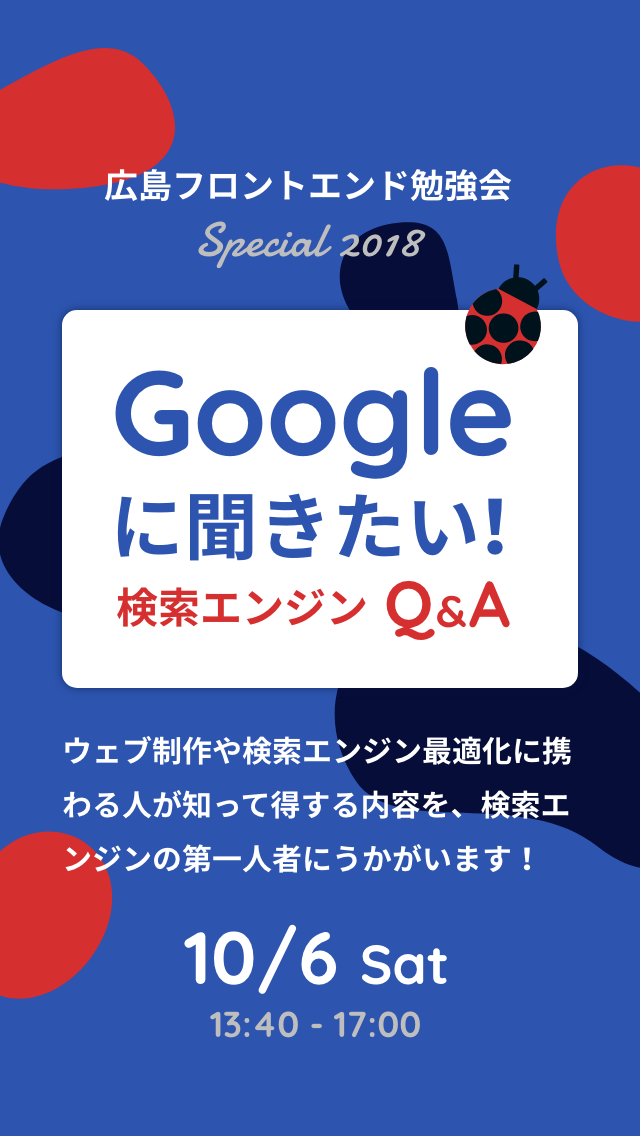
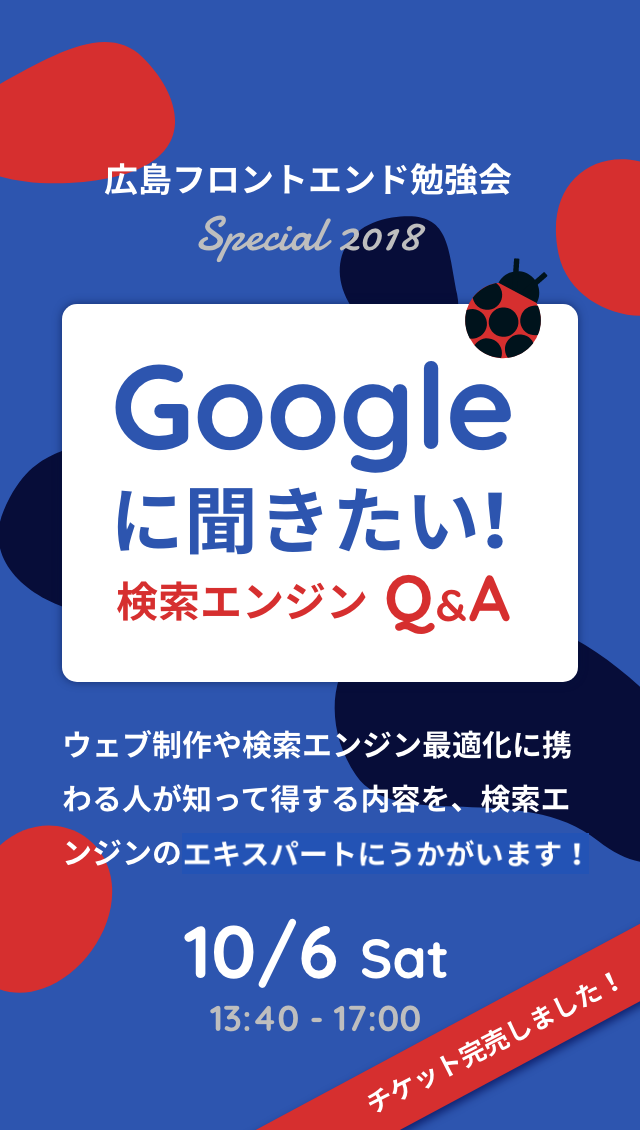
2018終了

diff --git a/htdocs/index.html b/htdocs/index.html
@@ -64,7 +64,7 @@
   },
   "description": "Adobe XDのハンズオンを行います。"
 }]
-</script><link rel="stylesheet" href="common/css/style.css"><link rel="stylesheet" href="common/fontello/css/fontello.css"><title>広島フロントエンド勉強会</title></head><body class="index"><div class="go_top"><a href="#">トップへ</a></div><div class="top sp"><h1 class="logo" data-heading="広島フロントエンド勉強会">広島フロントエンド勉強会</h1><div class="top_coding"><div class="top_introduction"><h2>広島フロントエンド勉強会 Vol.23</h2><h3>『8ぐらいから始めるReact』</h3><p class="datetime">2018年11月2日 19:00 〜 21:00</p><p class="placce">リードスペース株式会社<br>(広島県広島市中区上八丁堀7-5 ピロティーヒロシマ6F)</p><a class="btn_entry" href="https://hfe.connpass.com/event/101136" target="_blank">参加登録はこちら</a><a class="btn_more" href="#coding">詳しい情報を見る</a></div></div><div class="top_design"><div class="top_introduction"><h2>広島フロントエンド勉強会 〜デザイン部〜 Vol.9</h2><h3>『Adobe XD プロトタイプとデザインシステム』</h3><p class="datetime">2018年08月4日 13:30 〜 15:30</p><p class="placce">リードスペース株式会社<br>(広島県広島市中区上八丁堀7-5 ピロティーヒロシマ6F)</p><a class="btn_entry btn_none" href="https://hirofurodesign.connpass.com/event/93111" target="_blank">参加登録はこちら</a><a class="btn_more" href="#design">詳しい情報を見る</a></div></div><a class="top_sp" href="https://hirofuro.org/2018" target="_blank"><h2>広島フロントエンド勉強会 Special 2018<br>『Googleに聞きたい！ 検索エンジンQ&A』</h2><p>2018年10月6日 13:30</p></a></div><main class="main" id="main"><article id="coding"><section class="introduction"><h2>広島フロントエンド勉強会 Vol.23</h2><h3>『8ぐらいから始めるReact』</h3><p class="text">柿木 勝之さんに登壇いただき、Reactのハンズオンを行います。<br>構築済みのReactアプリケーションに機能を追加するハンズオンです。<br>今回は<a href="https://react-bootstrap.github.io/" target="_blank">react-bootstrap</a>を使ってページコンポーネントを作成します。<br><a href="http://react-hands-on.s3-website-us-east-1.amazonaws.com" target="_blank">完成イメージはこちら</a><br>ハンズオンにあたって、<a href="https://paiza.cloud/ja/" target="_blank">PaizaCloudクラウドIDE</a>を使用します。<br>事前にアカウント登録をお願いします(登録無料)。<br>(Vagrantが使える環境でも可能です)<br><a href="https://github.com/hiroshima-arc/react_hands-on" target="_blank">ハンズオンレポジトリはこちら</a></p><table class="info_table"><tr><th>日時</th><td>2018年11月2日 19:00 〜 21:00</td></tr><tr><th>会場</th><td>リードスペース株式会社<br>(広島県広島市中区上八丁堀7-5 ピロティーヒロシマ6F)</td></tr><tr><th>講師</th><td><strong>柿木 勝之</strong></td></tr><tr><th>定員</th><td>15人</td></tr><tr><th>参加費</th><td>200円</td></tr></table><a class="btn_entry" href="https://hfe.connpass.com/event/101136/" target="_blank">参加登録はこちら</a></section></article><article id="design"><section class="introduction"><h2>広島フロントエンド勉強会 〜デザイン部〜 Vol.9</h2><h3>『Adobe XD プロトタイプとデザインシステム）』</h3><p class="text">Adobe XDはここ数か月だけ見ても、デザインやプロトタイプ制作のクオリティを向上させる新たな機能が、どんどん追加されました。<br>今回はWebアプリのプロトタイプ制作を想定して、新たな機能を自分の手で体験しましょう。<br>また、Adobe XDで作成するデザインシステムについても触れていければと思います。</p><table class="info_table"><tr><th>日時</th><td>2018年08月4日 13:30 〜 15:30</td></tr><tr><th>会場</th><td>リードスペース株式会社<br>(広島県広島市中区上八丁堀7-5 ピロティーヒロシマ6F)</td></tr><tr><th>講師</th><td><a href="https://www.rcnt.jp/" target="_blank">株式会社リコネクト </a><strong>中井 誠也</strong></td></tr><tr><th>定員</th><td>15人</td></tr><tr><th>参加費</th><td>200円(会場費を割勘)</td></tr></table><!--table.timetable--><!--  tr--><!--    th 12:30--><!--    td 受付開始--><!--  tr--><!--    th 13:00--><!--    td あいさつ・諸注意--><!--  tr--><!--    th 13:05--><!--    td 調整中--><!--  tr--><!--    th 13:50--><!--    td 休憩--><!--  tr--><!--    th 14:00--><!--    td 調整中--><!--  tr--><!--    th 14:50--><!--    td まとめ--><a class="btn_entry btn_none" href="https://hirofurodesign.connpass.com/event/93111" target="_blank">参加登録はこちら</a></section></article><article class="about"><section class="about_inner"><h2>広島フロントエンド勉強会について</h2><p>広島フロントエンド勉強会は広島で活動するフロントエンドエンジニアの悩みを解決する集まりです。<br>毎月テーマに沿って、フロントエンドの疑問や悩みを解決しましょう。<br>共に疑問や悩みの解決、新たな技術の習得を通して広島のweb制作のレベルアップを目指します。</p><h2>デザイン部について</h2><p>広島でwebデザインを主軸にした勉強会が少なく、情報共有できるコミュニティーも少ないとの相談を受け、<br>広島フロントエンド勉強会の姉妹勉強会として「広島フロントエンド勉強会〜デザイン部〜」を立ち上げました。<br>ツールの使い方から文字サイズや行間はどうやって決めるかなど素朴な疑問まで、<br>参加者全員で情報を共有し、広島のwebデザインのレベルアップを目指します！</p><h2>活動について</h2><p>毎月の勉強会とは別に、Facebookグループで情報交換や交流を行なっています。</p><br><a class="btn_face" href="https://www.facebook.com/groups/291848747857968/" target="_blank">フロントエンドグループ</a><a class="btn_face" href="https://www.facebook.com/groups/250737515387161/" target="_blank">デザイングループ</a><p> </p><h2>開催情報</h2><p>開催情報はwebページとFacebookページ、Facebookグループ、Twitterを通じて発信しています。</p><br><a class="btn_face" href="https://www.facebook.com/hirofuro.org/" target="_blank">Facebookページ</a><a class="btn_face" href="https://twitter.com/hirofuroorg" target="_blank">Twitter(@hirofuroorg)</a><br><p><small>※広島フロントエンド勉強会はボランティアベースで開催しており、<br>知識のシェア・助け合いで成り立ってますので、ご参加の際はご理解・ご協力お願いいたします。<br>ご理解いただけない場合は、参加をお断りすることがございます。</small></p></section><section class="member"><div class="member_item"><img src="../common/img/inoue.jpg" alt="井上拓"><h2>井上 拓</h2><ul><li><a href="https://funaffect.jp" target="_blank">ファナフェクト株式会社</a></li><li>フロントエンドエンジニア</li></ul></div><div class="member_item"><img src="../common/img/sakakibara.jpg" alt="榊原 裕希"><h2>榊原 裕希</h2><ul><li><a href="https://leadspace.co.jp/" target="_blank">リードスペース株式会社</a></li><li>フロントエンドエンジニア</li></ul></div><div class="member_item"><img src="../common/img/tantan.png" alt="タンタン"><h2>タンタン</h2><ul><li><a href="https://leadspace.co.jp/" target="_blank">リードスペース株式会社</a></li><li>デザイナー</li></ul></div></section></article></main><footer class="footer"><p>&copy; 2016 - 2018 広島フロントエンド勉強会.</p></footer><a class="btn_share" href="https://www.facebook.com/sharer/sharer.php?u=https%3A%2F%2Fhirofuro.org%2F&amp;amp;src=sdkpreparse" target="_blank"><i class="icon-facebook-official"></i><span>Facebookでシェア</span></a><script src="../common/js/jquery-3.2.1.min.js"></script><script src="../common/js/script.js"></script><script src="https://use.typekit.net/wwi8jbt.js"></script><script>try{Typekit.load({ async: true });}catch(e){}</script><script src="../common/js/analytics.js"></script><script>(function(d, s, id) {
+</script><link rel="stylesheet" href="common/css/style.css"><link rel="stylesheet" href="common/fontello/css/fontello.css"><title>広島フロントエンド勉強会</title></head><body class="index"><div class="go_top"><a href="#">トップへ</a></div><div class="top sp"><h1 class="logo" data-heading="広島フロントエンド勉強会">広島フロントエンド勉強会</h1><div class="top_coding"><div class="top_introduction"><h2>広島フロントエンド勉強会 Vol.23</h2><h3>『8ぐらいから始めるReact』</h3><p class="datetime">2018年11月2日 19:00 〜 21:00</p><p class="placce">リードスペース株式会社<br>(広島県広島市中区上八丁堀7-5 ピロティーヒロシマ6F)</p><a class="btn_entry" href="https://hfe.connpass.com/event/101136" target="_blank">参加登録はこちら</a><a class="btn_more" href="#coding">詳しい情報を見る</a></div></div><div class="top_design"><div class="top_introduction"><h2>広島フロントエンド勉強会 〜デザイン部〜 Vol.9</h2><h3>『Adobe XD プロトタイプとデザインシステム』</h3><p class="datetime">2018年08月4日 13:30 〜 15:30</p><p class="placce">リードスペース株式会社<br>(広島県広島市中区上八丁堀7-5 ピロティーヒロシマ6F)</p><a class="btn_entry btn_none" href="https://hirofurodesign.connpass.com/event/93111" target="_blank">参加登録はこちら</a><a class="btn_more" href="#design">詳しい情報を見る</a></div></div><!--a(href="https://hirofuro.org/2018", target="_blank").top_sp<h2>広島フロントエンド勉強会 Special 2018<br>『Googleに聞きたい！ 検索エンジンQ&A』</h2><p>2018年10月6日 13:30--></p></div><main class="main" id="main"><article id="coding"><section class="introduction"><h2>広島フロントエンド勉強会 Vol.23</h2><h3>『8ぐらいから始めるReact』</h3><p class="text">柿木 勝之さんに登壇いただき、Reactのハンズオンを行います。<br>構築済みのReactアプリケーションに機能を追加するハンズオンです。<br>今回は<a href="https://react-bootstrap.github.io/" target="_blank">react-bootstrap</a>を使ってページコンポーネントを作成します。<br><a href="http://react-hands-on.s3-website-us-east-1.amazonaws.com" target="_blank">完成イメージはこちら</a><br>ハンズオンにあたって、<a href="https://paiza.cloud/ja/" target="_blank">PaizaCloudクラウドIDE</a>を使用します。<br>事前にアカウント登録をお願いします(登録無料)。<br>(Vagrantが使える環境でも可能です)<br><a href="https://github.com/hiroshima-arc/react_hands-on" target="_blank">ハンズオンレポジトリはこちら</a></p><table class="info_table"><tr><th>日時</th><td>2018年11月2日 19:00 〜 21:00</td></tr><tr><th>会場</th><td>リードスペース株式会社<br>(広島県広島市中区上八丁堀7-5 ピロティーヒロシマ6F)</td></tr><tr><th>講師</th><td><strong>柿木 勝之</strong></td></tr><tr><th>定員</th><td>15人</td></tr><tr><th>参加費</th><td>200円</td></tr></table><a class="btn_entry" href="https://hfe.connpass.com/event/101136/" target="_blank">参加登録はこちら</a></section></article><article id="design"><section class="introduction"><h2>広島フロントエンド勉強会 〜デザイン部〜 Vol.9</h2><h3>『Adobe XD プロトタイプとデザインシステム）』</h3><p class="text">Adobe XDはここ数か月だけ見ても、デザインやプロトタイプ制作のクオリティを向上させる新たな機能が、どんどん追加されました。<br>今回はWebアプリのプロトタイプ制作を想定して、新たな機能を自分の手で体験しましょう。<br>また、Adobe XDで作成するデザインシステムについても触れていければと思います。</p><table class="info_table"><tr><th>日時</th><td>2018年08月4日 13:30 〜 15:30</td></tr><tr><th>会場</th><td>リードスペース株式会社<br>(広島県広島市中区上八丁堀7-5 ピロティーヒロシマ6F)</td></tr><tr><th>講師</th><td><a href="https://www.rcnt.jp/" target="_blank">株式会社リコネクト </a><strong>中井 誠也</strong></td></tr><tr><th>定員</th><td>15人</td></tr><tr><th>参加費</th><td>200円(会場費を割勘)</td></tr></table><!--table.timetable--><!--  tr--><!--    th 12:30--><!--    td 受付開始--><!--  tr--><!--    th 13:00--><!--    td あいさつ・諸注意--><!--  tr--><!--    th 13:05--><!--    td 調整中--><!--  tr--><!--    th 13:50--><!--    td 休憩--><!--  tr--><!--    th 14:00--><!--    td 調整中--><!--  tr--><!--    th 14:50--><!--    td まとめ--><a class="btn_entry btn_none" href="https://hirofurodesign.connpass.com/event/93111" target="_blank">参加登録はこちら</a></section></article><article class="about"><section class="about_inner"><h2>広島フロントエンド勉強会について</h2><p>広島フロントエンド勉強会は広島で活動するフロントエンドエンジニアの悩みを解決する集まりです。<br>毎月テーマに沿って、フロントエンドの疑問や悩みを解決しましょう。<br>共に疑問や悩みの解決、新たな技術の習得を通して広島のweb制作のレベルアップを目指します。</p><h2>デザイン部について</h2><p>広島でwebデザインを主軸にした勉強会が少なく、情報共有できるコミュニティーも少ないとの相談を受け、<br>広島フロントエンド勉強会の姉妹勉強会として「広島フロントエンド勉強会〜デザイン部〜」を立ち上げました。<br>ツールの使い方から文字サイズや行間はどうやって決めるかなど素朴な疑問まで、<br>参加者全員で情報を共有し、広島のwebデザインのレベルアップを目指します！</p><h2>活動について</h2><p>毎月の勉強会とは別に、Facebookグループで情報交換や交流を行なっています。</p><br><a class="btn_face" href="https://www.facebook.com/groups/291848747857968/" target="_blank">フロントエンドグループ</a><a class="btn_face" href="https://www.facebook.com/groups/250737515387161/" target="_blank">デザイングループ</a><p> </p><h2>開催情報</h2><p>開催情報はwebページとFacebookページ、Facebookグループ、Twitterを通じて発信しています。</p><br><a class="btn_face" href="https://www.facebook.com/hirofuro.org/" target="_blank">Facebookページ</a><a class="btn_face" href="https://twitter.com/hirofuroorg" target="_blank">Twitter(@hirofuroorg)</a><br><p><small>※広島フロントエンド勉強会はボランティアベースで開催しており、<br>知識のシェア・助け合いで成り立ってますので、ご参加の際はご理解・ご協力お願いいたします。<br>ご理解いただけない場合は、参加をお断りすることがございます。</small></p></section><section class="member"><div class="member_item"><img src="../common/img/inoue.jpg" alt="井上拓"><h2>井上 拓</h2><ul><li><a href="https://funaffect.jp" target="_blank">ファナフェクト株式会社</a></li><li>フロントエンドエンジニア</li></ul></div><div class="member_item"><img src="../common/img/sakakibara.jpg" alt="榊原 裕希"><h2>榊原 裕希</h2><ul><li><a href="https://leadspace.co.jp/" target="_blank">リードスペース株式会社</a></li><li>フロントエンドエンジニア</li></ul></div><div class="member_item"><img src="../common/img/tantan.png" alt="タンタン"><h2>タンタン</h2><ul><li><a href="https://leadspace.co.jp/" target="_blank">リードスペース株式会社</a></li><li>デザイナー</li></ul></div></section></article></main><footer class="footer"><p>&copy; 2016 - 2018 広島フロントエンド勉強会.</p></footer><a class="btn_share" href="https://www.facebook.com/sharer/sharer.php?u=https%3A%2F%2Fhirofuro.org%2F&amp;amp;src=sdkpreparse" target="_blank"><i class="icon-facebook-official"></i><span>Facebookでシェア</span></a><script src="../common/js/jquery-3.2.1.min.js"></script><script src="../common/js/script.js"></script><script src="https://use.typekit.net/wwi8jbt.js"></script><script>try{Typekit.load({ async: true });}catch(e){}</script><script src="../common/js/analytics.js"></script><script>(function(d, s, id) {
   var js, fjs = d.getElementsByTagName(s)[0];
   if (d.getElementById(id)) return;
   js = d.createElement(s); js.id = id;

diff --git a/htdocs/2018/index.html b/htdocs/2018/index.html
@@ -45,7 +45,7 @@
         "price": "5000",
         "priceCurrency": "JPY",
         "url": "https://peatix.com/event/412978/",
-        "inventoryLevel": "販売中"
+        "inventoryLevel": "完売"
       },
       "organizer": {
         "@type": "Organization",
@@ -78,7 +78,6 @@
             <li><a href="#access">アクセス</a></li>
             <li><a href="#sponsor">協賛</a></li>
             <li><a href="#sponsors">協賛企業様</a></li>
-            <li><a href="https://peatix.com/event/412978/" target="_blank">お申込み</a></li>
           </ul>
 
           <p class="close"><img src="common/img/icon-close.png" alt="icon-close" width="34"></p>
@@ -106,8 +105,6 @@
           <p>ウェブ制作に携わる方だけでなく、企業のウェブ担当者やサイト運用に携わる方にも役立つ情報満載です。</p>
           <p>ぜひふるってご参加ください！</p>
           <p><small>※本イベントでは簡単にランキングを上げる方法や裏技のようなテクニックは扱いませんのでご了承ください。</small></p>
-
-          <div class="form_btn"><a href="https://peatix.com/event/412978/" target="_blank">お申し込み</a></div>
         </section>
       </article>
 
@@ -329,8 +326,7 @@
                 </tr>
                 <tr>
                   <td>16:25 ~ 17:05</td>
-                  <td><a href="#special">金谷氏 × 海外SEO情報ブログ 鈴木氏による Q&A セッション</a><br>たくさんの質問をお待ちしております。
-                    <a href="https://docs.google.com/forms/d/e/1FAIpQLSf7DcjHSQy_w-y_QnW6l2iA1hcXtkThQxwnKOZPG62Xb7CQ2g/viewform?usp=sf_link" target="_blank" rel="noopener">質問専用フォーム</a></td>
+                  <td><a href="#special">金谷氏 × 海外SEO情報ブログ 鈴木氏による Q&A セッション</a></td>
                 </tr>
                 <tr>
                   <td>17:05 ~ 17:15</td>
@@ -341,12 +337,11 @@
           </div>
           <section class="ama" id="ama">
             <h3 class="session_inner_title">スペシャルセッション事前質問の受付方法について</h3>
-            <p>本イベントでは事前に Google検索エンジンなどに関する質問を受け付けております。質問専用フォームを一般公開しておりますので、参加者のみなさま以外もご質問いただけます。以下の注意点をよくご確認の上、ご質問をお願いします。たくさんの質問をお待ちしております。</p>
+            <p><s>本イベントでは事前に Google検索エンジンなどに関する質問を受け付けております。質問専用フォームを一般公開しておりますので、参加者のみなさま以外もご質問いただけます。以下の注意点をよくご確認の上、ご質問をお願いします。たくさんの質問をお待ちしております。</s></p>
             <ul class="ul mt20">
               <li><small>本イベントでは簡単にランキングを上げる方法や裏技のようなテクニックは扱いません。それらに該当するような質問はご遠慮ください。</small></li>
               <li><small>イベント開催時間の都合上、全ての質問が採用される訳ではありません。ご了承ください。</small></li>
             </ul>
-            <div class="form_btn"><a href="https://docs.google.com/forms/d/e/1FAIpQLSf7DcjHSQy_w-y_QnW6l2iA1hcXtkThQxwnKOZPG62Xb7CQ2g/viewform?usp=sf_link" target="_blank" rel="noopener">質問専用フォームへ</a></div>
           </section>
 
         </section>
@@ -365,37 +360,6 @@
 
       <article class="sponsor" id="sponsor">
         <h2 class="art_title">協賛</h2>
-        <section class="sponsor_inner">
-          <p>セミナーにご協賛いただける企業・団体を募集中です。<br>広島のウェブ技術向上のため、ぜひご協力をお願いいたします。</p>
-
-          <div class="table_wrap mt20">
-            <table class="sponsor_table">
-              <tr>
-                <th></th>
-                <th>1万円</th>
-                <th>2万円</th>
-              </tr>
-              <tr>
-                <th>ロゴの掲載</th>
-                <td>◯</td>
-                <td>◯</td>
-              </tr>
-              <tr>
-                <th>チラシの配布</th>
-                <td>×</td>
-                <td>◯</td>
-              </tr>
-              <tr>
-                <th>特別招待枠</th>
-                <td>1名</td>
-                <td>2名</td>
-              </tr>
-            </table>
-          </div>
-
-          <div class="form_btn"><a href="https://goo.gl/forms/7iLg8UZ3o478VzAJ3" target="_blank">ご支援はこちらから</a></div>
-
-        </section>
 
         <section id="sponsors" class="sponsor_area">
           <h3>協賛企業様</h3>

diff --git a/htdocs/common/sass/page/_index.scss b/htdocs/common/sass/page/_index.scss
@@ -152,7 +152,9 @@
 		justify-content: center;
 		//align-items: center;
 		width: 50%;
-		height: 85vh;
+		//特別版を下に表示する場合
+		//height: 85vh;
+		height: 100vh;
 		padding: 18vh 8vw 8vh;
 		
 		@include media_query(){

diff --git a/htdocs/common/css/style.css b/htdocs/common/css/style.css
@@ -405,7 +405,7 @@ a:hover {
 	-ms-flex-pack: center;
 	justify-content: center;
 	width: 50%;
-	height: 85vh;
+	height: 100vh;
 	padding: 18vh 8vw 8vh;
 }
 
